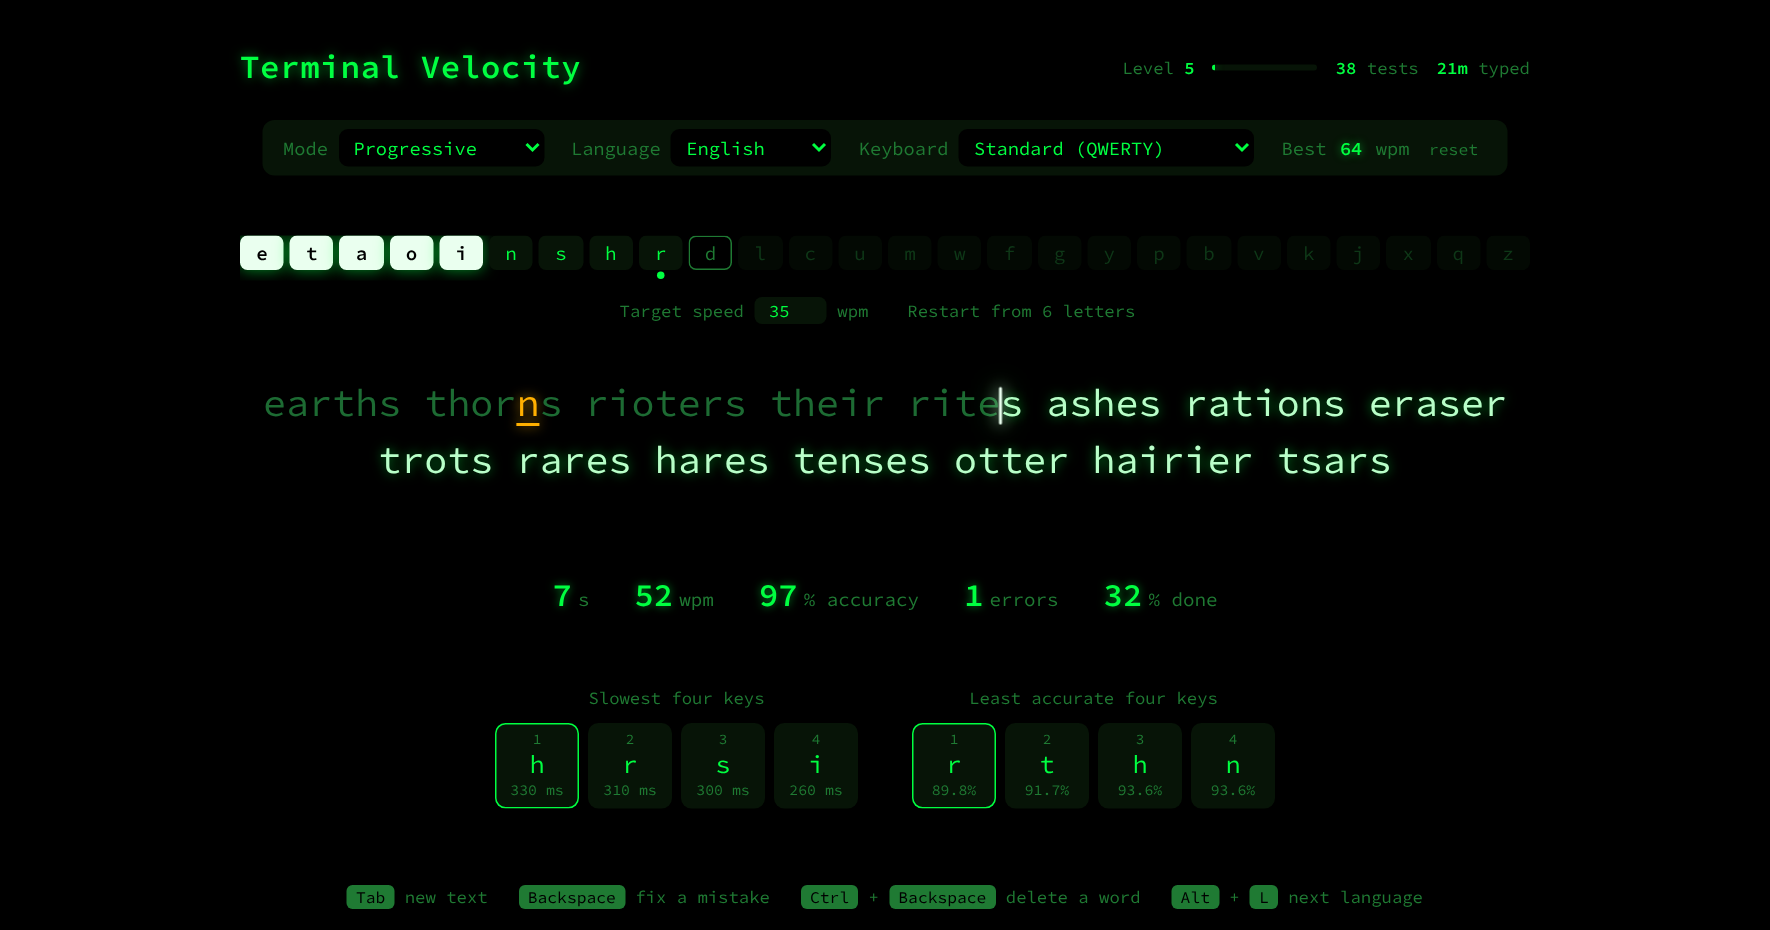
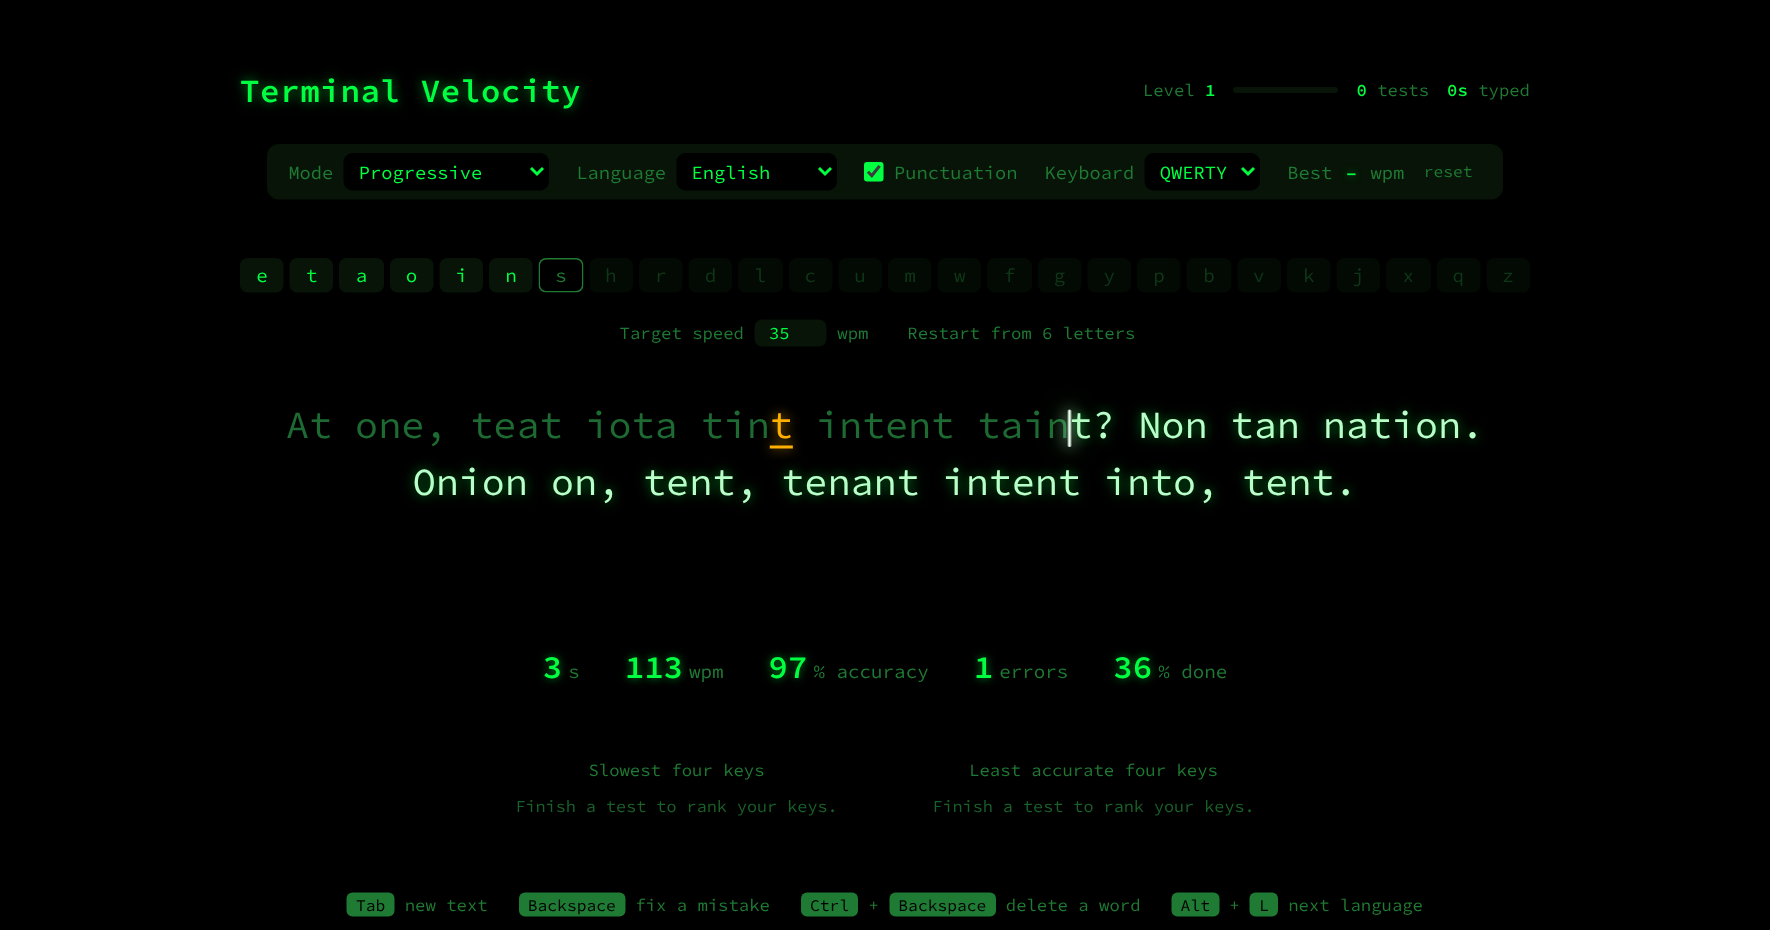
Add Punctuation option for every mode and language
- Punctuation checkbox turns the text into short sentences: a capital
  at the start, . ? or ! at the end, commas, the odd ; : or dash, and
  occasional "quotes" or (brackets); English possessives when s is in play
- Works in Progressive, Custom letters, Drills and Random word, for
  English, Ukrainian and Russian; the setting is saved
- ЙЦУКЕН keyboard setting now reads Cyrillic punctuation from the
  physical keys (. and , after ю, ! " ; : ? ( ) on the number row)
- On-screen keyboard gains Shift keys and the . key; capitals and marks
  light the key plus the Shift for the other hand
- Capitals and punctuation count towards speed and accuracy only, not
  the per-letter statistics or the letter ladder
- Keyboard options shortened to QWERTY / ЙЦУКЕН and System so the
  settings bar stays on one line
- README and screenshot updated; .nojekyll added for GitHub Pages

Claude-Session: https://claude.ai/code/session_018c6pemBpZ9XqqK52UtKSvb

diff --git a/index.html b/index.html
@@ -2,7 +2,7 @@
 <html lang="en">
 <head>
 <meta charset="utf-8">
-<meta http-equiv="Content-Security-Policy" content="default-src 'none'; script-src 'sha256-KPWVTp9m84B2pDuNemMwUPjDS+U+QJUkyR+NlR2Tjws=' 'sha256-VVbHMs+REuqlGSdMOo4xXq2qSKdrl3Aq8ig9ggFgB+w=' 'sha256-QqqLHesCVGsXF9s45moAyKpxgBDBG3FjfYJ07yucuYU=' 'sha256-F01UQNINv7v9eff/RZhSxS6HvP5CvHdzltGZwagTkQs='; style-src 'sha256-LQ0gIIJCeHwbk9anyPaKz1gGR33GNs8en96oF/dIUWU='; font-src data:; img-src 'self' data:; manifest-src 'self'; worker-src 'self'; connect-src 'self'; base-uri 'none'; form-action 'none'">
+<meta http-equiv="Content-Security-Policy" content="default-src 'none'; script-src 'sha256-KPWVTp9m84B2pDuNemMwUPjDS+U+QJUkyR+NlR2Tjws=' 'sha256-VVbHMs+REuqlGSdMOo4xXq2qSKdrl3Aq8ig9ggFgB+w=' 'sha256-bAmkf6KTprUj2zuwTBENN4/cPX0dnFjv3bP+C1qQy2c=' 'sha256-F01UQNINv7v9eff/RZhSxS6HvP5CvHdzltGZwagTkQs='; style-src 'sha256-Bm10Sh1fBeJY7xNMkEqtzkvEv6FCcB3dx3VzHSNM9M4='; font-src data:; img-src 'self' data:; manifest-src 'self'; worker-src 'self'; connect-src 'self'; base-uri 'none'; form-action 'none'">
 <meta name="viewport" content="width=device-width, initial-scale=1">
 <meta name="description" content="Terminal Velocity: a touch-typing trainer for English, Ukrainian and Russian.">
 <meta name="robots" content="noindex, nofollow">
@@ -144,6 +144,8 @@
   .vk.next { background: var(--hot); color: var(--bg); opacity: 1; font-weight: 600; box-shadow: 0 0 12px var(--main); }
   .vk.bump::after { content: ""; position: absolute; bottom: 5px; width: 9px; height: 2px; border-radius: 1px; background: currentColor; opacity: .6; }
   .vk.space { width: 230px; }
+  .vk.shift { width: 45px; font-size: .62rem; }
+  .vk.shift.right { width: 82px; }
 
   /* key statistics */
   .keypanel h2 { font-size: .72rem; font-weight: 400; color: var(--sub); margin: 0 0 10px; }
@@ -308,10 +310,12 @@
         <option value="ru" lang="ru">Русский</option>
       </select>
     </label>
-    <label class="opt">Keyboard
+    <label class="opt" title="Add capital letters and punctuation marks to the text, in any mode">
+      <input type="checkbox" id="punct"> Punctuation</label>
+    <label class="opt" title="QWERTY or ЙЦУКЕН: your keys are read as that layout, so you don't need to install it. System: uses whatever your computer's keyboard layout types.">Keyboard
       <select id="layout">
-        <option value="qwerty" id="stdOpt" selected>Standard (QWERTY)</option>
-        <option value="system">Match my system layout</option>
+        <option value="qwerty" id="stdOpt" selected>QWERTY</option>
+        <option value="system">System</option>
       </select>
     </label>
     <span class="opt best" id="bestBox" title="Fastest speed across all finished tests">Best <b id="best">–</b> wpm
@@ -384,7 +388,7 @@ window.FLT_WORDS = "aback abacus abandon abate abated abates abating abbey abbey
   var DEFAULT_WPM = 35;
 
   // ---- languages ----
-  // freq: the order letters unlock in; std: how the "Standard" keyboard setting reads the physical keys
+  // freq: the order letters unlock in; std: the layout the keyboard setting reads the physical keys as
   var RU_KEYS = { Backquote: "ё", KeyQ: "й", KeyW: "ц", KeyE: "у", KeyR: "к", KeyT: "е", KeyY: "н", KeyU: "г", KeyI: "ш",
     KeyO: "щ", KeyP: "з", BracketLeft: "х", BracketRight: "ъ", KeyA: "ф", KeyS: "ы", KeyD: "в", KeyF: "а", KeyG: "п",
     KeyH: "р", KeyJ: "о", KeyK: "л", KeyL: "д", Semicolon: "ж", Quote: "э", KeyZ: "я", KeyX: "ч", KeyC: "с", KeyV: "м",
@@ -393,6 +397,13 @@ window.FLT_WORDS = "aback abacus abandon abate abated abates abating abbey abbey
   var UK_KEYS = {};
   for (var rk in RU_KEYS) if (rk !== "Backquote") UK_KEYS[rk] = RU_KEYS[rk];
   UK_KEYS.KeyS = "і"; UK_KEYS.BracketRight = "ї"; UK_KEYS.Quote = "є"; UK_KEYS.Backslash = "ґ"; UK_KEYS.IntlBackslash = "ґ";
+  // punctuation on ЙЦУКЕН: [without Shift, with Shift]; "." and "," share the key after ю, the rest are on the number row
+  var CYR_PUNCT = { Slash: [".", ","], Digit1: [null, "!"], Digit2: [null, '"'], Digit3: [null, "№"], Digit4: [null, ";"],
+    Digit5: [null, "%"], Digit6: [null, ":"], Digit7: [null, "?"], Digit8: [null, "*"], Digit9: [null, "("], Digit0: [null, ")"],
+    Minus: ["-", "_"], Equal: ["=", "+"] };
+  // which on-screen key (and whether Shift) types each punctuation mark used in the texts
+  var CYR_VKB_PUNCT = { ".": [".", 0], ",": [".", 1], "!": ["1", 1], '"': ["2", 1], ";": ["4", 1], ":": ["6", 1],
+    "?": ["7", 1], "(": ["9", 1], ")": ["0", 1], "-": ["-", 0] };
   var CYR_ONSETS = ("б в г д ж з к л м н п р с т ф х ц ч ш щ бл бр вл вр гл гр дв др жд зв зл зн зр кл кн кр кт " +
     "мл мн пл пр св ск сл см сн сп ст тв тр фл фр хв хл хр чт шк шл шт шв").split(" ");
   var LANGS = {
@@ -403,17 +414,17 @@ window.FLT_WORDS = "aback abacus abandon abate abated abates abating abbey abbey
     ru: { name: "Russian", native: "Русский", alphabet: "абвгдеёжзийклмнопрстуфхцчшщъыьэюя", freq: "оеаинтсрвлкмдпуяыьгзбчйхжшюцщэфъё",
           std: "ЙЦУКЕН", placeholder: "оеан", doubles: "бвджзклмнпрстфеио",
           words: (window.FLT_WORDS_RU || "").split(" "),
-          key: function (code) { return RU_KEYS[code] || null; },
+          key: function (code) { return RU_KEYS[code] || null; }, punct: CYR_PUNCT,
           vowels: "аеёиоуыэюя", onsets: CYR_ONSETS,
           codas: "б в г д ж з к л м н п р с т ф х ц ч ш щ й ст нт нк нд рт рк рд лк зд ль нь ть рь дь вь сь зь мь пь".split(" "),
-          vkb: ["ё1234567890-=", "йцукенгшщзхъ", "фывапролджэ", "ячсмитьбю"] },
+          vkb: ["ё1234567890-=", "йцукенгшщзхъ", "фывапролджэ", "ячсмитьбю."] },
     uk: { name: "Ukrainian", native: "Українська", alphabet: "абвгґдеєжзиіїйклмнопрстуфхцчшщьюя", freq: "оаниіетврдксумлпзябгьчйхцжшюїєщфґ",
           std: "ЙЦУКЕН", placeholder: "оани", doubles: "бвджзклмнпрстфцчш",
           words: (window.FLT_WORDS_UK || "").split(" "),
-          key: function (code) { return UK_KEYS[code] || null; },
+          key: function (code) { return UK_KEYS[code] || null; }, punct: CYR_PUNCT,
           vowels: "аеєиіїоуюя", onsets: CYR_ONSETS.concat(["ґ"]),
           codas: "б в г д ж з к л м н п р с т ф х ц ч ш щ й ст нт нк нд рт рк рд лк зд ль нь ть дь сь зь ць".split(" "),
-          vkb: ["'1234567890-=", "йцукенгшщзхї", "фівапролджєґ", "ячсмитьбю"] }
+          vkb: ["'1234567890-=", "йцукенгшщзхї", "фівапролджєґ", "ячсмитьбю."] }
   };
   var LANG_ORDER = ["en", "uk", "ru"];
   function L() { return LANGS[store.prog.lang] || LANGS.en; }
@@ -446,6 +457,7 @@ window.FLT_WORDS = "aback abacus abandon abate abated abates abating abbey abbey
   var targetIn = document.getElementById("target");
   var langSel = document.getElementById("lang");
   var drillsBox = document.getElementById("drills");
+  var punctBox = document.getElementById("punct");
   var vkbEl = document.getElementById("vkb");
   var meaningEl = document.getElementById("meaning");
   var wordOpt = document.getElementById("wordOpt");
@@ -485,7 +497,7 @@ window.FLT_WORDS = "aback abacus abandon abate abated abates abating abbey abbey
               lang: LANG_ORDER.indexOf(p.lang) >= 0 ? p.lang : "en",
               layout: p.layout === "system" ? "system" : "qwerty",
               wpm: {},
-              drills: p.drills === true, unlocked: {}, custom: {} } };
+              drills: p.drills === true, punct: p.punct === true, unlocked: {}, custom: {} } };
     var best = typeof s.best === "number" ? { en: s.best } : obj(s.best);            // older saves: one English best
     var wpm = typeof p.wpm === "number" ? { en: p.wpm, uk: p.wpm, ru: p.wpm } : obj(p.wpm);   // older saves: one target for every language
     var unlocked = typeof p.unlocked === "number" ? { en: p.unlocked } : obj(p.unlocked);
@@ -733,25 +745,63 @@ window.FLT_WORDS = "aback abacus abandon abate abated abates abating abbey abbey
   }
 
   function makeText() {
-    var out = "";
+    var list = [], len = 0, limit = store.prog.punct ? TARGET_CHARS - 12 : TARGET_CHARS;   // leave room for the marks
     lastWord = ""; letterUse = {}; pairUse = {};
     var forced = store.prog.mode === "custom" && store.prog.drills;   // the Drills box: drills only
     var drill = forced || autoDrill, words = !forced && (pool.length || pseudoOK);
     while (true) {
-      var remaining = TARGET_CHARS - out.length - (out ? 1 : 0);
+      var remaining = limit - len - (len ? 1 : 0);
       if (remaining < 2) break;
       var w = null;
       if (words && (!drill || Math.random() < 0.25)) w = nextWord(Math.min(7, remaining));   // drills still mix in some words
       if (!w && drill) w = drillWord(Math.min(5, remaining));
       if (!w) break;
-      out += (out ? " " : "") + w;
+      len += (len ? 1 : 0) + w.length;
+      list.push(w);
     }
-    return out;
+    return joinWords(list);
+  }
+
+  // Punctuation: sentences of 3 to 8 words, each starting with a capital and ending with . ? or !,
+  // with commas, the odd ; : or dash, and now and then a word or two in "quotes" or (brackets).
+  // Only marks the keyboard setting can type: on ЙЦУКЕН they come from the ю-row and number keys.
+  function joinWords(list) { return store.prog.punct ? punctuate(list) : list.join(" "); }
+  function punctuate(words) {
+    var out = [], i = 0;
+    var poss = store.prog.lang === "en" && letters.indexOf("s") >= 0;   // English possessives (cat's) when s is in play
+    while (i < words.length) {
+      var n = Math.min(words.length - i, 3 + Math.floor(Math.random() * 6));
+      if (words.length - i - n < 2) n = words.length - i;              // never leave a one-word sentence at the end
+      var s = words.slice(i, i + n); i += n;
+      s[0] = s[0].charAt(0).toUpperCase() + s[0].slice(1);
+      var from = -1, to = -1, strong = false;
+      if (n >= 3 && Math.random() < 0.14) {                            // quotes or brackets, never round the first word
+        from = 1 + Math.floor(Math.random() * (n - 1));
+        to = Math.min(n - 1, from + Math.floor(Math.random() * 2));
+        var q = Math.random() < 0.5 ? ['"', '"'] : ["(", ")"];
+        s[from] = q[0] + s[from]; s[to] += q[1];
+      }
+      for (var j = 0; j < n - 1; j++) {
+        if (from >= 0 && j >= from && j < to) continue;                 // nothing inside the quotes or brackets
+        var r = Math.random();
+        if (r < 0.14) s[j] += ",";
+        else if (r < 0.2 && !strong) { strong = true; s[j] += pick([";", ":", " -"]); }
+        else if (r < 0.23 && poss && (j < from || j > to) && !/s$/.test(s[j])) s[j] += "'s";
+      }
+      var e = Math.random();
+      s[n - 1] += e < 0.75 ? "." : e < 0.88 ? "?" : "!";
+      out.push(s.join(" "));
+    }
+    return out.join(" ");
   }
 
   function charFor(e) {
-    var c = layoutSel.value === "qwerty" ? L().key(e.code) : null;   // "Standard" reads the physical key
-    if (c) return e.shiftKey ? c.toUpperCase() : c;
+    if (layoutSel.value === "qwerty") {                                // QWERTY / ЙЦУКЕН setting: read the physical key
+      var c = L().key(e.code);
+      if (c) return e.shiftKey ? c.toUpperCase() : c;
+      var pm = L().punct && L().punct[e.code];                        // ЙЦУКЕН punctuation; English uses the system's own
+      if (pm && pm[e.shiftKey ? 1 : 0]) return pm[e.shiftKey ? 1 : 0];
+    }
     return e.key;
   }
 
@@ -798,22 +848,33 @@ window.FLT_WORDS = "aback abacus abandon abate abated abates abating abbey abbey
   // ---- on-screen keyboard (Russian and Ukrainian ЙЦУКЕН) ----
   // rows are indented like a real staggered keyboard
   var VKB_INDENT = [0, 20, 30, 50];
-  var vkbKeys = {}, vkbLit = null, vkbBuiltFor = "";
+  var VKB_LEFT = [6, 5, 5, 5];         // keys per row typed by the left hand
+  var vkbKeys = {}, vkbHand = {}, vkbShift = {}, vkbLit = [], vkbBuiltFor = "";
 
   function buildVkb() {
     var frag = document.createDocumentFragment();
-    vkbEl.textContent = ""; vkbKeys = {}; vkbLit = null;
+    vkbEl.textContent = ""; vkbKeys = {}; vkbHand = {}; vkbShift = {}; vkbLit = [];
+    function shiftKey(side) {
+      var el = document.createElement("div");
+      el.className = "vk shift" + (side === "R" ? " right" : "");
+      el.textContent = "Shift";
+      vkbShift[side] = el;
+      return el;
+    }
     L().vkb.forEach(function (keys, r) {
       var div = document.createElement("div");
       div.className = "vrow";
-      div.style.marginLeft = VKB_INDENT[r] + "px";
-      keys.split("").forEach(function (k) {
+      div.style.marginLeft = (r === 3 ? 0 : VKB_INDENT[r]) + "px";
+      if (r === 3) div.appendChild(shiftKey("L"));
+      keys.split("").forEach(function (k, i) {
         var el = document.createElement("div");
         el.className = "vk" + (k === "а" || k === "о" ? " bump" : "");   // home keys under the index fingers
         el.textContent = k;
         vkbKeys[k] = el;
+        vkbHand[k] = i < VKB_LEFT[r] ? "L" : "R";
         div.appendChild(el);
       });
+      if (r === 3) div.appendChild(shiftKey("R"));
       frag.appendChild(div);
     });
     var spaceRow = document.createElement("div");
@@ -833,16 +894,29 @@ window.FLT_WORDS = "aback abacus abandon abate abated abates abating abbey abbey
     vkbEl.hidden = !show;
     if (!show) return;
     if (vkbBuiltFor !== store.prog.lang) buildVkb();
-    for (var k in vkbKeys) vkbKeys[k].classList.toggle("dim", k !== " " && letters.indexOf(k) < 0);
+    var marks = {};
+    if (store.prog.punct) for (var m in CYR_VKB_PUNCT) marks[CYR_VKB_PUNCT[m][0]] = 1;
+    for (var k in vkbKeys) vkbKeys[k].classList.toggle("dim", k !== " " && letters.indexOf(k) < 0 && !marks[k]);
+    for (var s in vkbShift) vkbShift[s].classList.toggle("dim", !store.prog.punct);
+  }
+  function vkbFor(ch) {               // the key for a character, and whether it needs Shift
+    if (vkbKeys[ch]) return { key: ch, shift: false };
+    var low = ch.toLowerCase();
+    if (low !== ch && vkbKeys[low]) return { key: low, shift: true };
+    var pm = CYR_VKB_PUNCT[ch];
+    return pm ? { key: pm[0], shift: !!pm[1] } : null;
   }
 
   function lightVkb() {               // highlight the next key to press
     if (vkbEl.hidden) return;
-    var el = !finished && text ? vkbKeys[text[typed.length]] || null : null;
-    if (el === vkbLit) return;
-    if (vkbLit) vkbLit.classList.remove("next");
-    if (el) el.classList.add("next");
-    vkbLit = el;
+    var f = !finished && text && typed.length < text.length ? vkbFor(text[typed.length]) : null, lit = [];
+    if (f && vkbKeys[f.key]) {
+      lit.push(vkbKeys[f.key]);
+      if (f.shift) lit.push(vkbShift[vkbHand[f.key] === "L" ? "R" : "L"]);   // Shift with the other hand
+    }
+    vkbLit.forEach(function (el) { if (lit.indexOf(el) < 0) el.classList.remove("next"); });
+    lit.forEach(function (el) { el.classList.add("next"); });
+    vkbLit = lit;
   }
 
   function render() {
@@ -1030,8 +1104,9 @@ window.FLT_WORDS = "aback abacus abandon abate abated abates abating abbey abbey
     modeSel.value = store.prog.mode;
     langSel.value = store.prog.lang;
     drillsBox.checked = !!store.prog.drills;
+    punctBox.checked = !!store.prog.punct;
     layoutSel.value = store.prog.layout;
-    stdOpt.textContent = "Standard (" + L().std + ")";
+    stdOpt.textContent = L().std;
     input.placeholder = L().placeholder;
     box.lang = store.prog.lang;
     progPanel.hidden = !prog;
@@ -1100,7 +1175,7 @@ window.FLT_WORDS = "aback abacus abandon abate abated abates abating abbey abbey
       current = nextVocab();
       var reps = [];
       for (var r = 0; r < WORD_REPEATS; r++) reps.push(current.word);
-      text = reps.join(" ");
+      text = joinWords(reps);
     } else text = makeText();
     typed = [];
     keystrokes = 0; mistakes = 0;
@@ -1157,6 +1232,13 @@ window.FLT_WORDS = "aback abacus abandon abate abated abates abating abbey abbey
     store.prog.drills = drillsBox.checked;
     saveStore();
     if (letters.length) { applyMode(); newText(); }
+  });
+  punctBox.addEventListener("change", function () {
+    punctBox.blur();
+    store.prog.punct = punctBox.checked;
+    saveStore();
+    setupVkb();
+    if (letters.length) newText();
   });
   modeSel.addEventListener("change", function () {
     modeSel.blur();
@@ -1296,7 +1378,7 @@ window.FLT_WORDS = "aback abacus abandon abate abated abates abating abbey abbey
         hinted = true;
         msg.className = "";
         msg.textContent = "Your keyboard is typing " + other.name + " letters. Switch Language to " +
-          other.native + ", or set Keyboard to Standard.";
+          other.native + ", or set Keyboard to " + L().std + ".";
       }
     }
     if (typed.length >= text.length) return;
@@ -1310,7 +1392,7 @@ window.FLT_WORDS = "aback abacus abandon abate abated abates abating abbey abbey
     var ok = ch === expected;
     keystrokes++;
     if (!ok) mistakes++;
-    if (expected !== " ") {
+    if (L().alphabet.indexOf(expected) >= 0) {
       var ks = testKeys[expected] || (testKeys[expected] = { time: 0, n: 0, ok: 0, err: 0, g: [], o: [] });
       ks.o.push(ok ? 1 : 0);
       if (!ok) ks.err++;

diff --git a/sw.js b/sw.js
@@ -1,7 +1,7 @@
 // Terminal Velocity offline helper. Keeps a copy of the app so it works without internet.
 // The page itself is always fetched fresh when online (so updates arrive straight away) and the saved copy is
 // used only when offline. Nothing is ever sent anywhere: it only handles requests for this app's own files.
-const VERSION = "terminal-velocity-2131c8536156";
+const VERSION = "terminal-velocity-69525ac297b2";
 const FILES = ["./", "index.html", "manifest.webmanifest", "icons/icon.svg", "icons/icon-192.png", "icons/icon-512.png", "icons/icon-maskable-512.png", "icons/apple-touch-icon.png", "icons/favicon-32.png"];
 
 self.addEventListener("install", (event) => {

diff --git a/README.md b/README.md
@@ -16,11 +16,12 @@ It's a single web page with no account, no server and no tracking. It works offl
 - **Made-up words that follow the spelling rules.** When your letters can't make enough real words, made-up words fill the gap. They follow each language's spelling rules: no tripled letters, only the double letters the language really uses, Russian жи-ши and ча-ща, Ukrainian ь only after д т з с ц л н, and so on.
 - **Custom letters.** Practise any four letters you choose, to isolate particular keys.
 - **Random word (Ukrainian).** Choose **Random word** under Mode to type one common Ukrainian word nine times. When you finish, its English meaning appears, with the stress mark shown, for example **буди́нок — house, building (noun)**. It stays on screen until you press Tab for the next word. The 3,000 words come up in random order with no repeats. These tests count towards your Ukrainian statistics and level, but not towards best speed or the letter ladder.
+- **Punctuation.** Tick **Punctuation** to turn the text into short sentences, in any mode and any language. Each sentence starts with a capital letter and ends with . ? or !, with commas, the odd ; : or dash, and now and then words in "quotes" or (brackets). English also gets possessives like cat's. Capitals and punctuation count towards your speed and accuracy, but not towards the letter statistics or the letter ladder. On the on-screen keyboard, the key and the Shift key for the other hand light up together.
 - **Letter drills.** For letter sets that make few words, or whenever you tick **Drills**, you get drills that use every letter equally and practise every pair of letters evenly.
 - **Weakest keys.** The page shows your four slowest keys and your four least accurate keys, based on all your finished tests.
 - **Levels.** You earn 1 point per second of typing and 20 points per finished test, and each level needs a little more than the last. Each language shows its own level, test count, time typed and best speed.
 - **On-screen keyboard** for Ukrainian and Russian. It highlights the next key to press and dims letters you haven't unlocked yet.
-- **Physical keyboard support.** With **Standard** keyboard selected, your keys are read as QWERTY for English and ЙЦУКЕН for Ukrainian or Russian, so you don't need to install another keyboard layout. **Match my system layout** uses whatever your computer types instead.
+- **Physical keyboard support.** With Keyboard set to **QWERTY** (English) or **ЙЦУКЕН** (Ukrainian and Russian), your keys are read as that layout, including ЙЦУКЕН punctuation, so you don't need to install another keyboard layout. **System** uses whatever your computer's own layout types instead.
 - **Export and import progress** to a file, for backups or moving to another computer.
 - **Intro screen.** The first time you open it each session, green digital rain falls, then fades back while a greeting types itself out. Press **Enter** to start typing, or **Esc** or **Skip** to go straight in. If your computer is set to reduce motion, the greeting appears straight away without the animation.
 - **A smooth gliding caret** that fits the height of the letters, and blinks at the end of a test.
